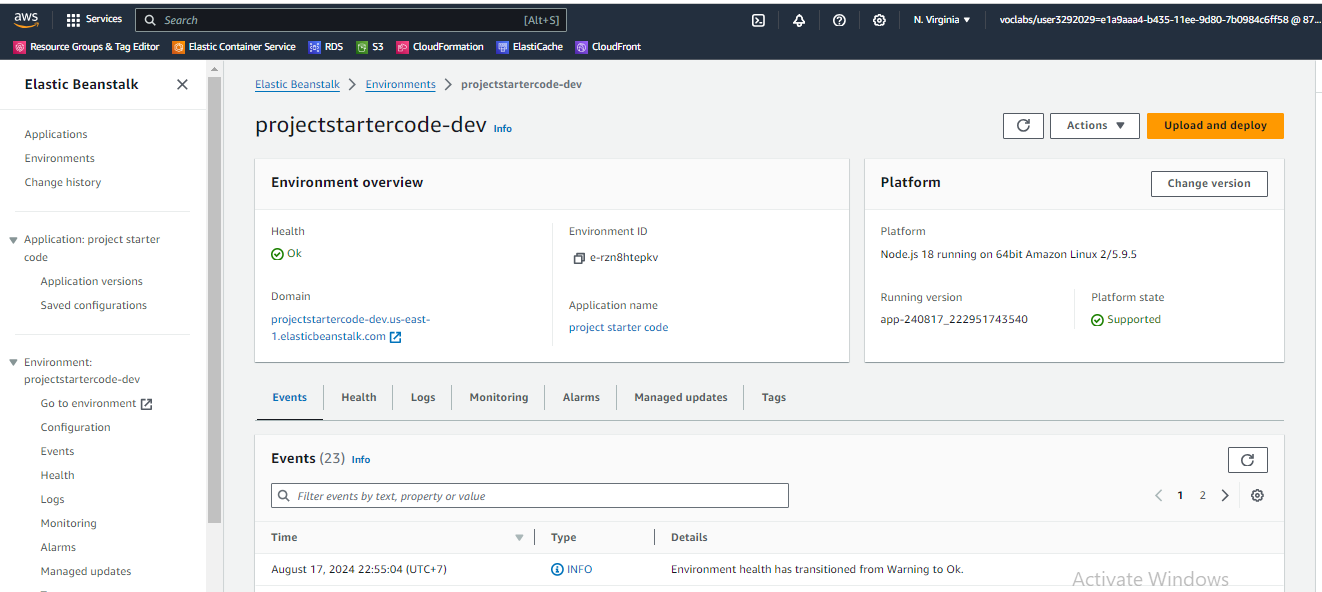
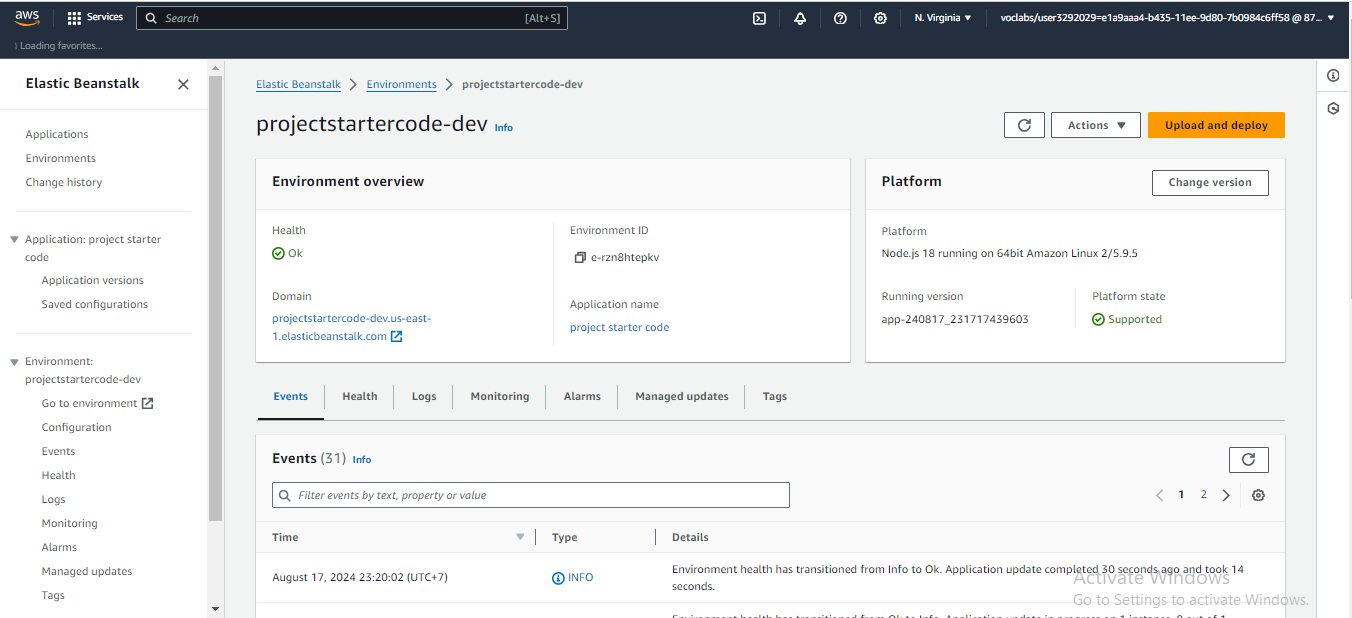
update screen-shot

diff --git a/README.md b/README.md
@@ -25,3 +25,5 @@ Successful URL responses should have a 200 code. Ensure that you include error c
 
 ## URL Elastic Beanstalk
 http://projectstartercode-dev.us-east-1.elasticbeanstalk.com/
+
+http://projectstartercode-dev.us-east-1.elasticbeanstalk.com/filteredimage?image_url=https://upload.wikimedia.org/wikipedia/commons/b/bd/Golden_tabby_and_white_kitten_n01.jpg
